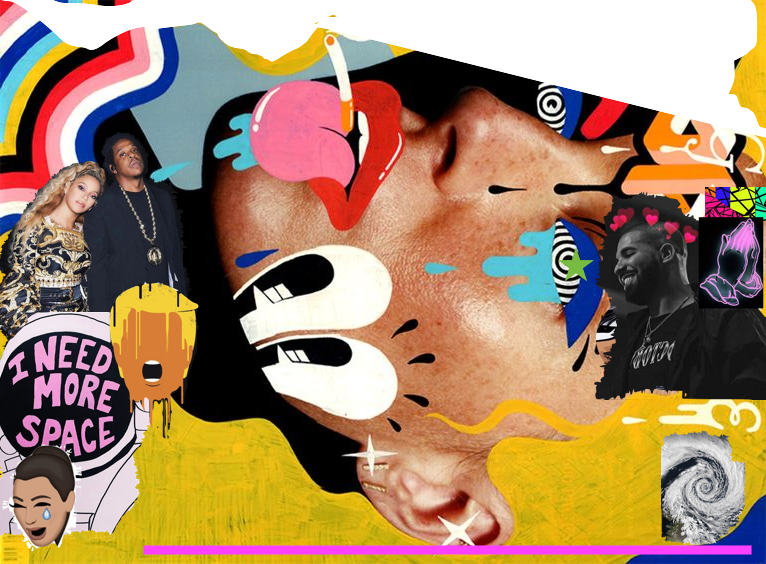
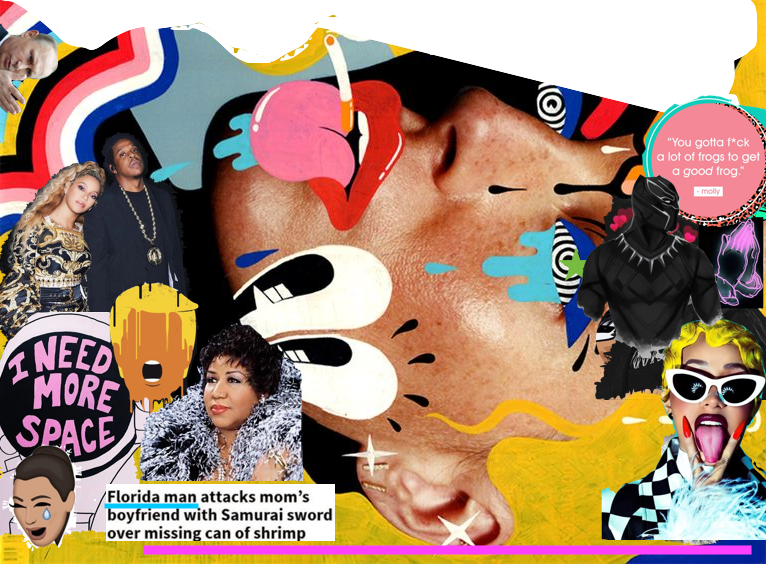
adding in home page

diff --git a/index.html b/index.html
@@ -1,52 +1,77 @@
 <!DOCTYPE html>
 <html lang="en">
+
 <head>
     <meta charset="UTF-8">
     <meta name="viewport" content="width=device-width, initial-scale=1.0">
     <meta http-equiv="X-UA-Compatible" content="ie=edge">
     <title>Document</title>
+    <!-- link main.css -->
     <link rel="stylesheet" href="main.css">
-      <!-- Compiled and minified CSS -->
-      <link rel="stylesheet" href="https://cdnjs.cloudflare.com/ajax/libs/materialize/1.0.0/css/materialize.min.css">
+    <!-- Latest compiled and minified CSS -->
+    <link rel="stylesheet" href="https://maxcdn.bootstrapcdn.com/bootstrap/3.3.7/css/bootstrap.min.css" integrity="sha384-BVYiiSIFeK1dGmJRAkycuHAHRg32OmUcww7on3RYdg4Va+PmSTsz/K68vbdEjh4u"
+        crossorigin="anonymous">
 
-      <!-- Compiled and minified JavaScript -->
-      <script src="https://cdnjs.cloudflare.com/ajax/libs/materialize/1.0.0/js/materialize.min.js"></script>
+    <!-- Optional theme -->
+    <link rel="stylesheet" href="https://maxcdn.bootstrapcdn.com/bootstrap/3.3.7/css/bootstrap-theme.min.css" integrity="sha384-rHyoN1iRsVXV4nD0JutlnGaslCJuC7uwjduW9SVrLvRYooPp2bWYgmgJQIXwl/Sp"
+        crossorigin="anonymous">
+
+    <!-- Latest compiled and minified JavaScript -->
+    <script src="https://maxcdn.bootstrapcdn.com/bootstrap/3.3.7/js/bootstrap.min.js" integrity="sha384-Tc5IQib027qvyjSMfHjOMaLkfuWVxZxUPnCJA7l2mCWNIpG9mGCD8wGNIcPD7Txa"
+        crossorigin="anonymous"></script>
 </head>
+
 <body>
-    <div class="container">
-        <!-- main div that will hold everything -->
-        
-        <div class="content">
-                <table class="table table-bordered">
-                        <thead>
-                          <tr>
-                            <th scope="col">#</th>
-                            <th scope="col">First</th>
-                            <th scope="col">Last</th>
-                            <th scope="col">Handle</th>
-                          </tr>
-                        </thead>
-                        <tbody>
-                          <tr>
-                            <th scope="row">1</th>
-                            <td>Mark</td>
-                            <td>Otto</td>
-                            <td>@mdo</td>
-                          </tr>
-                          <tr>
-                            <th scope="row">2</th>
-                            <td>Jacob</td>
-                            <td>Thornton</td>
-                            <td>@fat</td>
-                          </tr>
-                          <tr>
-                            <th scope="row">3</th>
-                            <td colspan="2">Larry the Bird</td>
-                            <td>@twitter</td>
-                          </tr>
-                        </tbody>
-                      </table>
-    </div>
-    
+<div class="container">
+    <div class="scoreBoard"></div>
+
+    <!-- create a table: the table will hold the categoeries and the cards for each cateogry  -->
+    <table class="table table-bordered">
+        <thead>
+            <tr>
+
+                <th scope="col">FASHION</th>
+                <th scope="col">TECHNLOGY</th>
+                <th scope="col">MUSIC</th>
+                <th scope="col">POLITICS</th>
+            </tr>
+        </thead>
+        <tbody>
+            <!-- tr row of cells -->
+            <tr>
+                <!-- td is the data cell in the table will hold cards plus different values (100-500)-->
+                <td>100</td>
+                <td>100</td>
+                <td>100</td>
+                <td>100</td>
+            </tr>
+            <tr>
+                <td>200</td>
+                <td>200</td>
+                <td>200</td>
+                <td>200</td>
+            </tr>
+            <tr>
+                <td>300</td>
+                <td>300</td>
+                <td>300</td>
+                <td>300</td>
+            </tr>
+            <tr>
+                <td>400</td>
+                <td>400</td>
+                <td>400</td>
+                <td>400</td>
+            </tr>
+            <tr>
+                <td>500</td>
+                <td>500</td>
+                <td>500</td>
+                <td>500</td>
+            </tr>
+        </tbody>
+    </table>
+</div>
 </body>
+
 </html>

diff --git a/home.html b/home.html
@@ -1,0 +1,16 @@
+<!DOCTYPE html>
+<html lang="en">
+<head>
+    <meta charset="UTF-8">
+    <meta name="viewport" content="width=device-width, initial-scale=1.0">
+    <meta http-equiv="X-UA-Compatible" content="ie=edge">
+    <title>Document</title>
+    <link rel="stylesheet" href="home.css">
+</head>
+<body>
+    <div class="containerHome">
+       <img src="images/homepage.png"  id="collage" alt="collage of phots">
+    </div>
+    
+</body>
+</html>

diff --git a/home.css b/home.css
@@ -1,0 +1,15 @@
+.containerHome{
+    border-radius: 10px;
+    height: 40rem;
+    width: 70rem;
+    margin-top: 5%;
+    margin-left: 13px;
+    background-color:rgb(77, 181, 86);
+    background-repeat: no-repeat;
+}
+#collage{
+    width:70rem;
+    margin-left: 0%;
+    margin-top: 50px; 
+
+}

diff --git a/main.css b/main.css
@@ -1,0 +1,18 @@
+table{
+    margin: auto;
+    text-align: center;
+}
+th{
+    text-align: center;
+}
+td{
+    height: 150px;
+    width: 150px;
+}
+.card{
+    border: none;
+    box-shadow: 1px 1px whitesmoke;
+ 
+    margin: auto;
+   
+}
